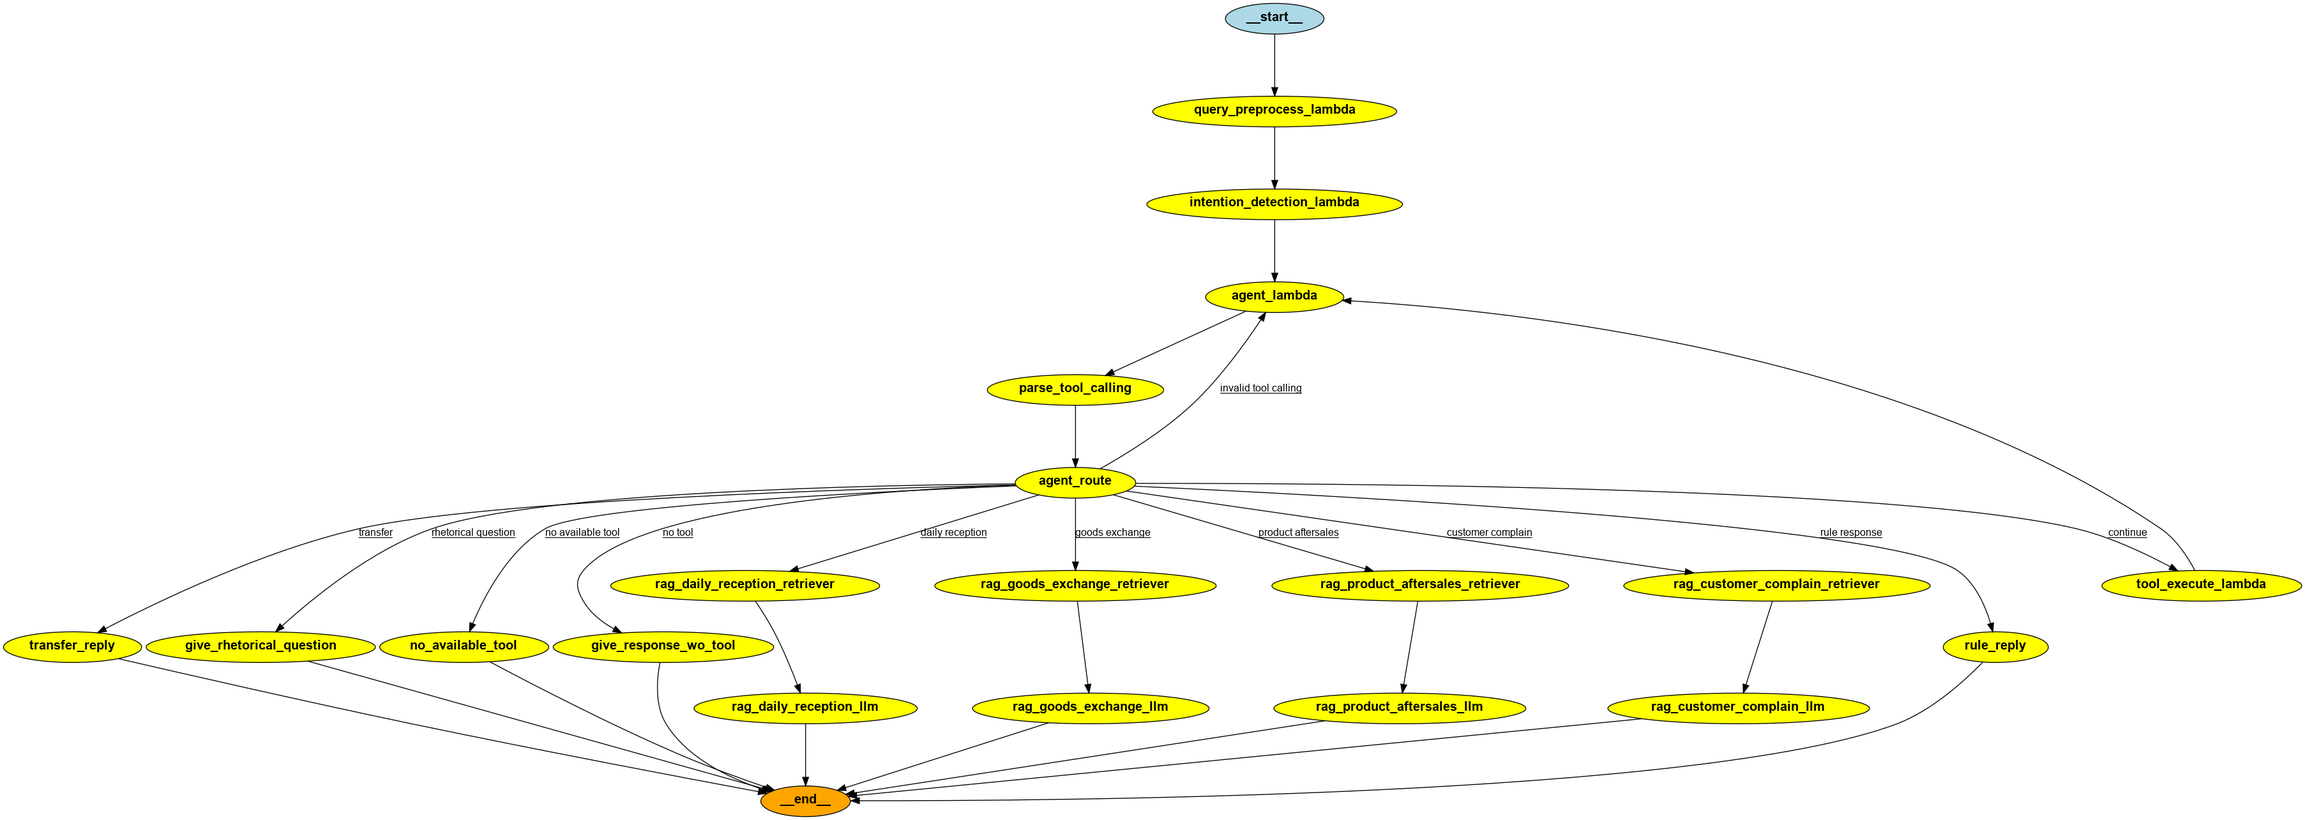
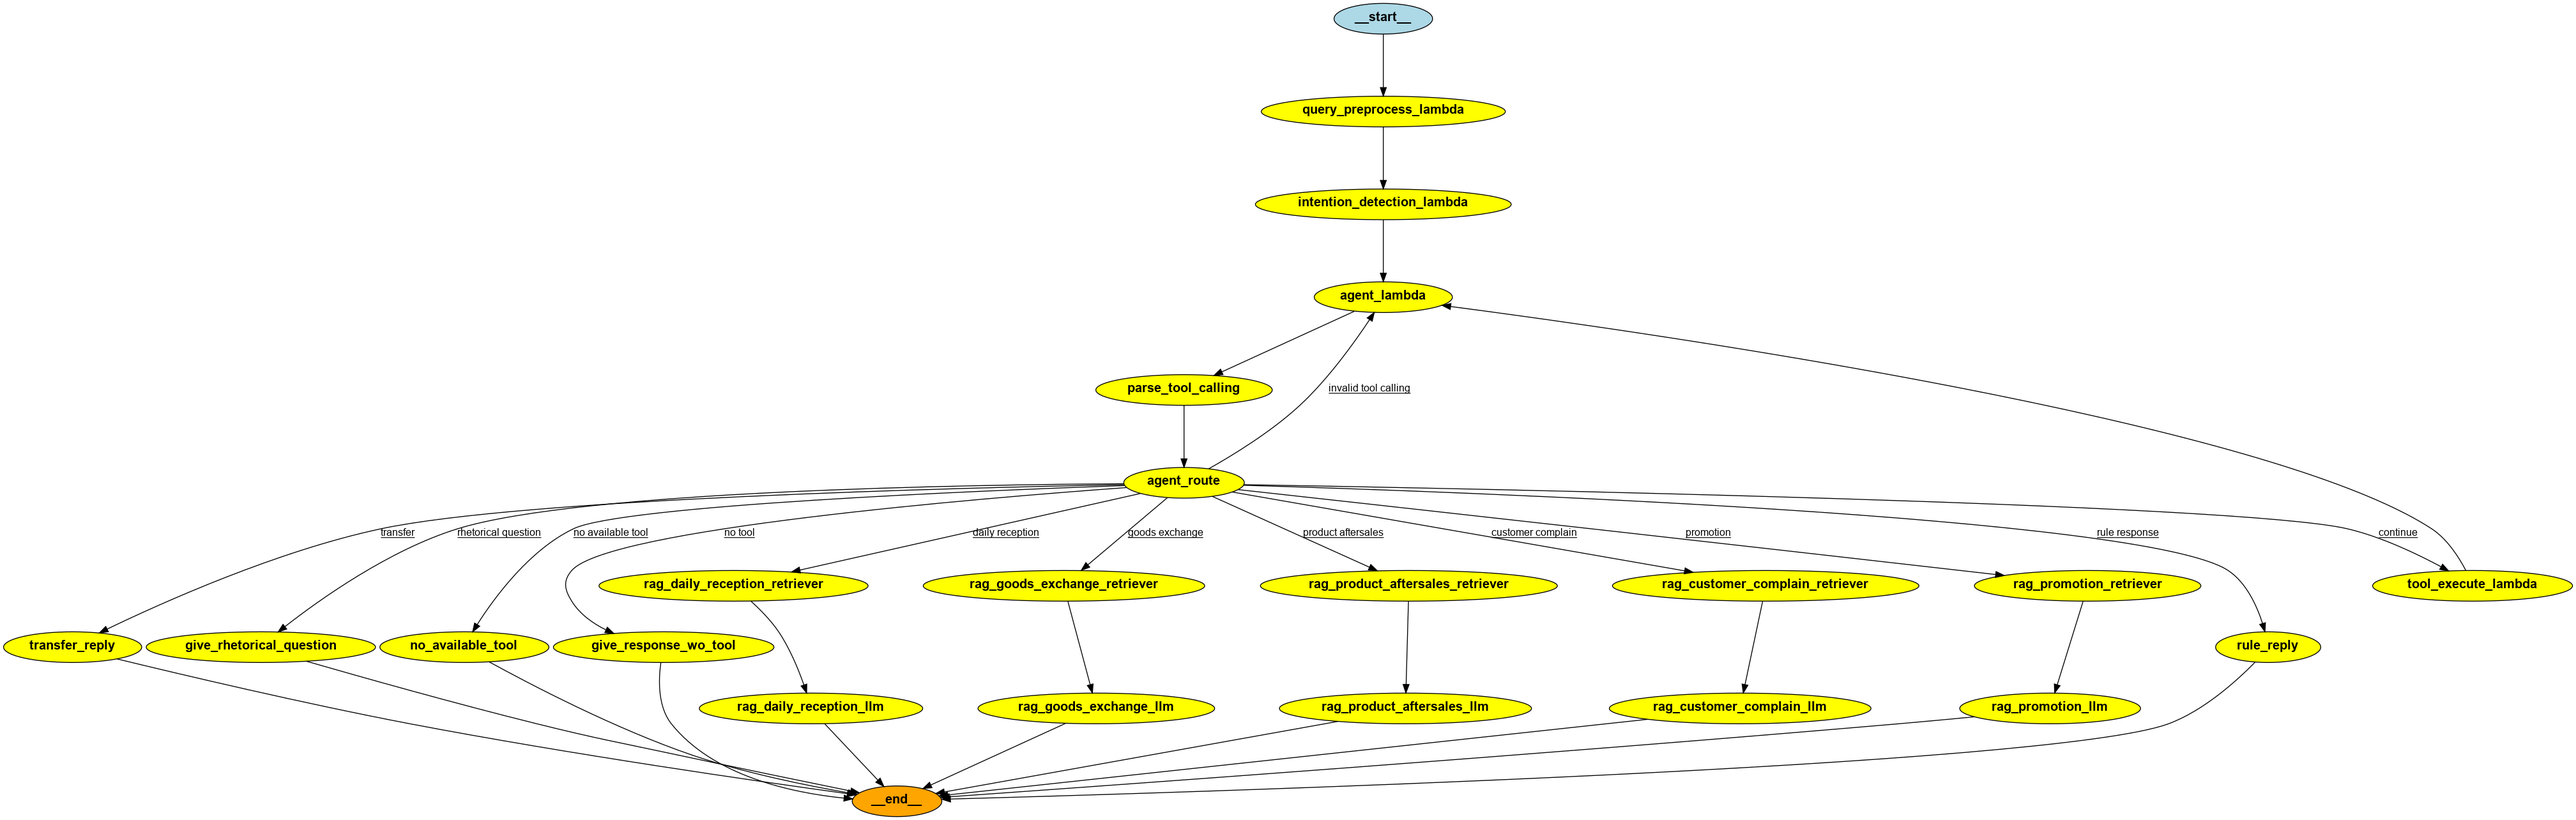
add promotion sttg

diff --git a/source/lambda/online/lambda_main/main_utils/online_entries/retail_entry.py b/source/lambda/online/lambda_main/main_utils/online_entries/retail_entry.py
@@ -301,6 +301,7 @@ def rag_product_aftersales_llm_lambda(state:ChatbotState):
     prompt = dedent(f"""你是安踏的客服助理，正在帮用户解答问题，客户提出的问题大多是属于商品的商品质量和物流规则，可能包括你需要按照下面的guidelines进行回复:
                     <guidelines>
                       - 回复内容需要展现出礼貌。
+                      - 回答要简洁。
                     </guidelines>
                     下面列举了一些具体的场景下的回复，你可以结合用户的问题进行参考回答:
                     <context>
@@ -314,7 +315,7 @@ def rag_product_aftersales_llm_lambda(state:ChatbotState):
         handler_name='lambda_handler',
         event_body={
             "llm_config": {**state['chatbot_config']['rag_product_aftersales_config']['llm_config'], "intent_type": LLMTaskType.CHAT},
-            "llm_input": { "contexts": [state['contexts']], "query": state['query'], "chat_history": state['chat_history']}
+            "llm_input": { "query": prompt, "chat_history": state['chat_history']}
             }
         )
     return {"answer": output}
@@ -339,10 +340,11 @@ def rag_customer_complain_retriever_lambda(state: ChatbotState):
 @node_monitor_wrapper
 def rag_customer_complain_llm_lambda(state:ChatbotState):
     context = ("="*50).join(state['contexts'])
-    prompt = dedent(f"""你是安踏的客服助理，正在有关于客户抱怨的问题，这些问题有关于商品质量等方面，需要你按照下面的guidelines进行回复:
+    prompt = dedent(f"""你是安踏的客服助理，正在处理有关于客户抱怨的问题，这些问题有关于商品质量等方面，需要你按照下面的guidelines进行回复:
                     <guidelines>
                       - 回复内容需要展现出礼貌。
                       - 尽量安抚客户的情绪。
+                      - 回答要简洁。
                     </guidelines>
                     下面列举了一些具体的场景下的回复，你可以结合用户的问题进行参考回答:
                     <context>
@@ -356,7 +358,49 @@ def rag_customer_complain_llm_lambda(state:ChatbotState):
         handler_name='lambda_handler',
         event_body={
             "llm_config": {**state['chatbot_config']['rag_customer_complain_config']['llm_config'], "intent_type": LLMTaskType.CHAT},
-            "llm_input": { "contexts": [state['contexts']], "query": state['query'], "chat_history": state['chat_history']}
+            "llm_input": { "query": prompt, "chat_history": state['chat_history']}
+            }
+        )
+    return {"answer": output}
+
+@node_monitor_wrapper
+def rag_promotion_retriever_lambda(state: ChatbotState):
+    # call retriever
+    retriever_params = state["chatbot_config"]["rag_promotion_config"]["retriever_config"]
+    retriever_params["query"] = state["query"]
+    output:str = invoke_lambda(
+        event_body=retriever_params,
+        lambda_name="Online_Function_Retriever",
+        lambda_module_path="functions.lambda_retriever.retriever",
+        handler_name="lambda_handler"
+    )
+    contexts = [doc['page_content'] for doc in output['result']['docs']]
+
+    context = "\n".join(contexts)
+    send_trace(f'**rag_promotion_retriever** {context}')
+    return {"contexts": contexts}
+
+@node_monitor_wrapper
+def rag_promotion_llm_lambda(state:ChatbotState):
+    context = ("="*50).join(state['contexts'])
+    prompt = dedent(f"""你是安踏的客服助理，正在处理客户有关于商品促销的问题，这些问题有关于积分，奖品，奖励等方面，需要你按照下面的guidelines进行回复:
+                    <guidelines>
+                      - 回复内容需要展现出礼貌。
+                      - 回答要简洁。
+                    </guidelines>
+                    下面列举了一些具体的场景下的回复，你可以结合用户的问题进行参考回答:
+                    <context>
+                    {context}
+                    </context>
+                    下面是用户的回复: {state['query']}
+""")
+    output:str = invoke_lambda(
+        lambda_name='Online_LLM_Generate',
+        lambda_module_path="lambda_llm_generate.llm_generate",
+        handler_name='lambda_handler',
+        event_body={
+            "llm_config": {**state['chatbot_config']['rag_promotion_config']['llm_config'], "intent_type": LLMTaskType.CHAT},
+            "llm_input": { "query": prompt, "chat_history": state['chat_history']}
             }
         )
     return {"answer": output}
@@ -439,6 +483,9 @@ def agent_route(state:dict):
     if recent_tool_call['name'] == 'customer_complain':
         return "customer complain"
 
+    if recent_tool_call['name'] == 'promotion':
+        return "promotion"
+
     return "continue"
      
 #############################
@@ -466,6 +513,8 @@ def build_graph():
     workflow.add_node("rag_product_aftersales_llm",rag_product_aftersales_llm_lambda)
     workflow.add_node("rag_customer_complain_retriever",rag_customer_complain_retriever_lambda)
     workflow.add_node("rag_customer_complain_llm",rag_customer_complain_llm_lambda)
+    workflow.add_node("rag_promotion_retriever",rag_promotion_retriever_lambda)
+    workflow.add_node("rag_promotion_llm",rag_promotion_llm_lambda)
     workflow.add_node("rule_reply",rule_reply)
 
     
@@ -479,6 +528,7 @@ def build_graph():
     workflow.add_edge('rag_goods_exchange_retriever',"rag_goods_exchange_llm")
     workflow.add_edge('rag_product_aftersales_retriever',"rag_product_aftersales_llm")
     workflow.add_edge('rag_customer_complain_retriever',"rag_customer_complain_llm")
+    workflow.add_edge('rag_promotion_retriever',"rag_promotion_llm")
 
     # end
     workflow.add_edge("transfer_reply",END)
@@ -489,6 +539,7 @@ def build_graph():
     workflow.add_edge("rag_goods_exchange_llm",END)
     workflow.add_edge("rag_product_aftersales_llm",END)
     workflow.add_edge("rag_customer_complain_llm",END)
+    workflow.add_edge("rag_promotion_llm",END)
     workflow.add_edge('rule_reply',END)
 
     # temporal add edges for ending logic
@@ -508,6 +559,7 @@ def build_graph():
             "rule response": "rule_reply",
             "product aftersales": "rag_product_aftersales_retriever",
             "customer complain": "rag_customer_complain_retriever",
+            "promotion": "rag_promotion_retriever",
             # "response": "give_tool_response",
             "continue":"tool_execute_lambda"
         }

diff --git a/source/lambda/online/lambda_main/test/main_local_test_retail.py b/source/lambda/online/lambda_main/test/main_local_test_retail.py
@@ -180,12 +180,42 @@ def test(chatbot_mode="chat"):
             "llm_config":{
                 **default_llm_config,
             }
+        },
+        "rag_promotion_config": {
+            "retriever_config":{
+                "retrievers": [
+                    {
+                        "type": "qq",
+                        "workspace_ids": ['retail-shouhou-wuliu','retail-quick-reply'],
+                        "config": {
+                            "top_k": 2,
+                        }
+                    },
+                ],
+                "rerankers": [
+                    {
+                        "type": "reranker",
+                        "config": {
+                            "enable_debug": False,
+                            "target_model": "bge_reranker_model.tar.gz"
+                        }
+                    }
+                ],
+            },
+            "llm_config":{
+                **default_llm_config,
+            }
         }
     }
     
     session_id = f"test_{time.time()}"
     
+    # 售后物流
     #"可以发顺丰快递吗？",
+    # 客户抱怨
+    # "很浪费时间 出库的时候也不看清楚？",
+    # 促销查询
+    # "评论有惊喜吗？",
     generate_answer(
         "很浪费时间 出库的时候也不看清楚？",
         stream=True,

diff --git a/source/lambda/online/functions/tools.py b/source/lambda/online/functions/tools.py
@@ -370,9 +370,6 @@ tool_manager.register_tool({
     }
 })
 
-
-
-
 tool_manager.register_tool({
     "name":"customer_complain",
     "lambda_name": "xxxx",
@@ -380,6 +377,16 @@ tool_manager.register_tool({
     "tool_def": {
         "name": "customer_complain",
         "description": "About customer complaints, including product quality, wrong shipments, missing shipments and so on",
+    }
+})
+
+tool_manager.register_tool({
+    "name":"promotion",
+    "lambda_name": "xxxx",
+    "lambda_module_path": "functions.retail_tools.lambda_goods_exchage.customer_complain",
+    "tool_def": {
+        "name": "promotion",
+        "description": "Information about product promotions, such as points, prizes, rewards, etc."
     }
 })
 
